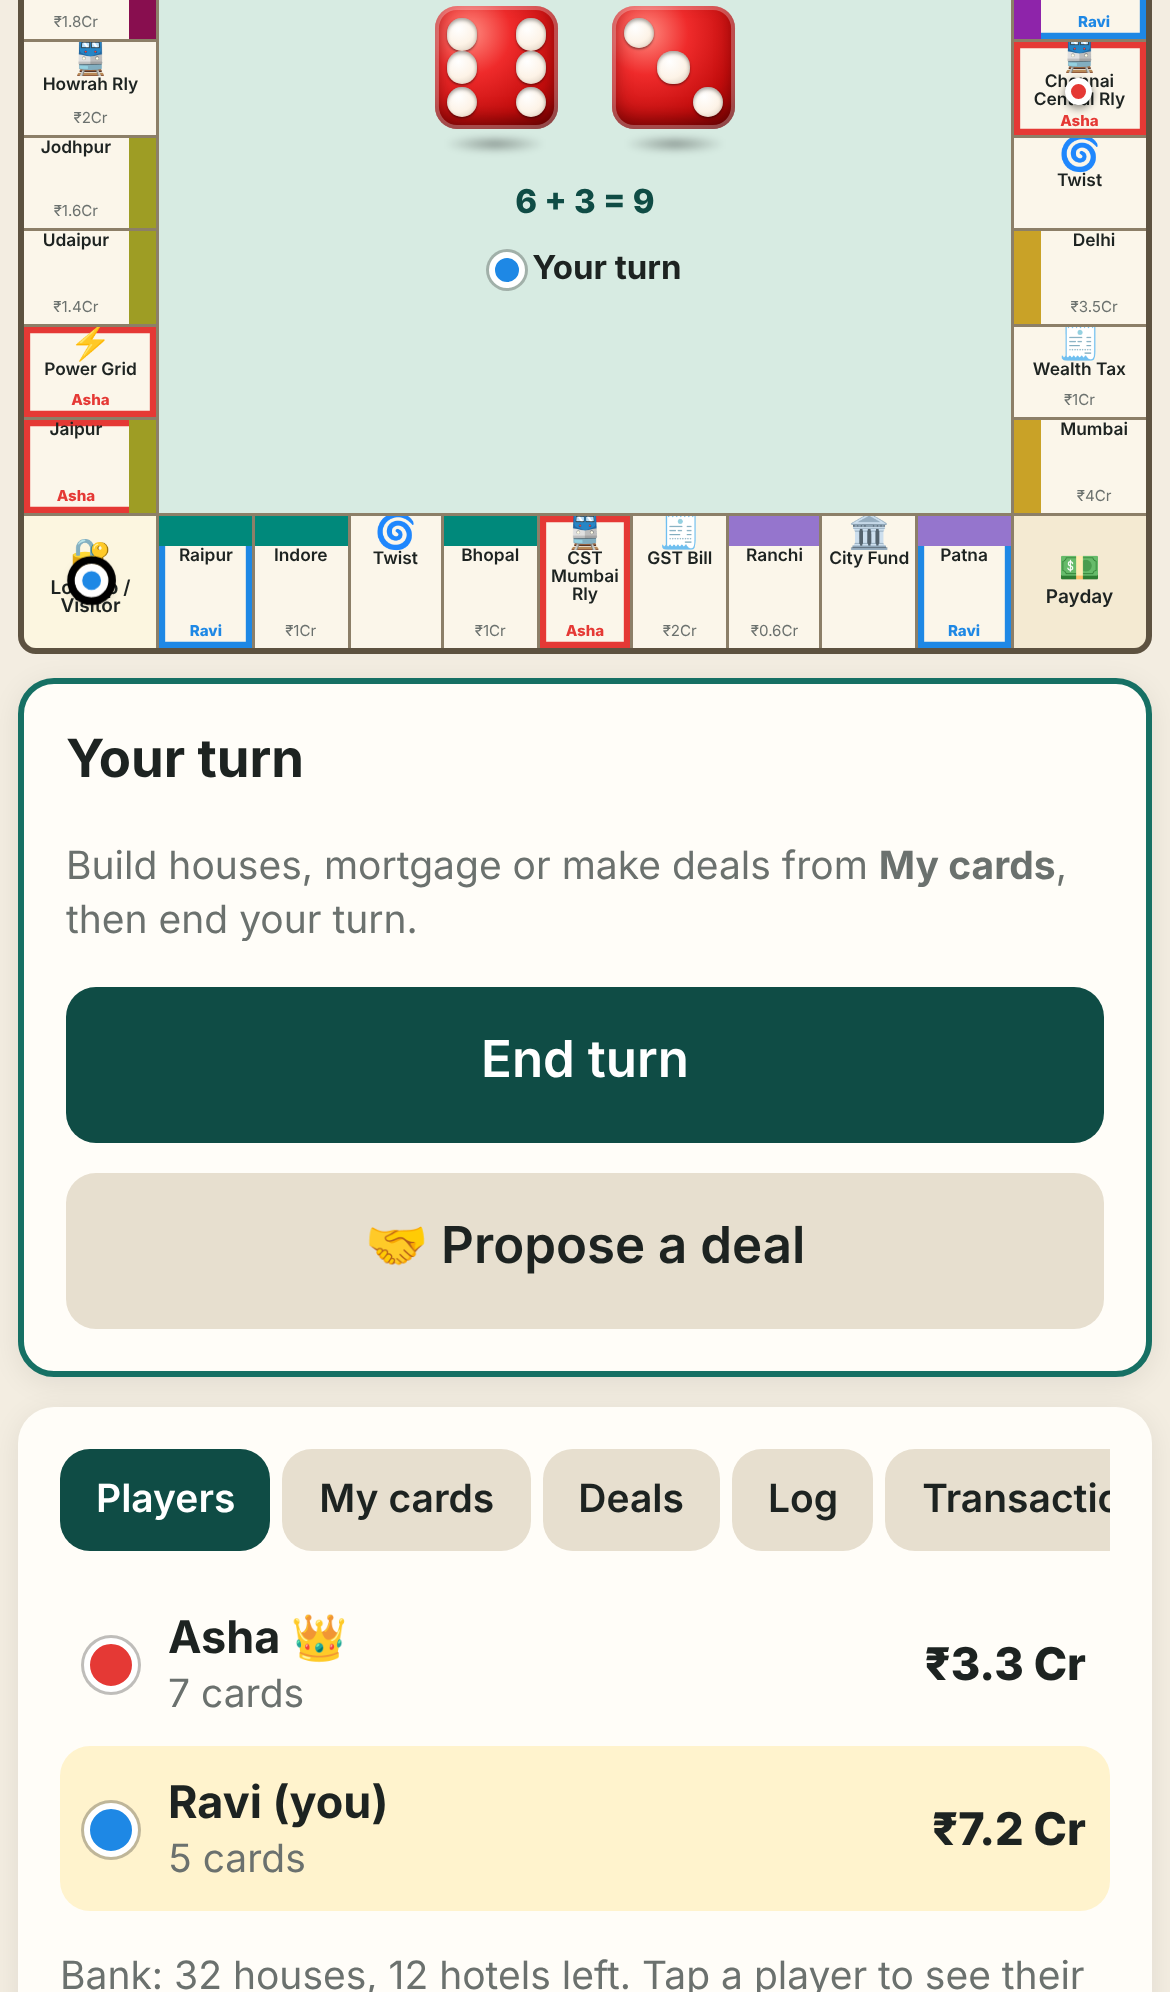
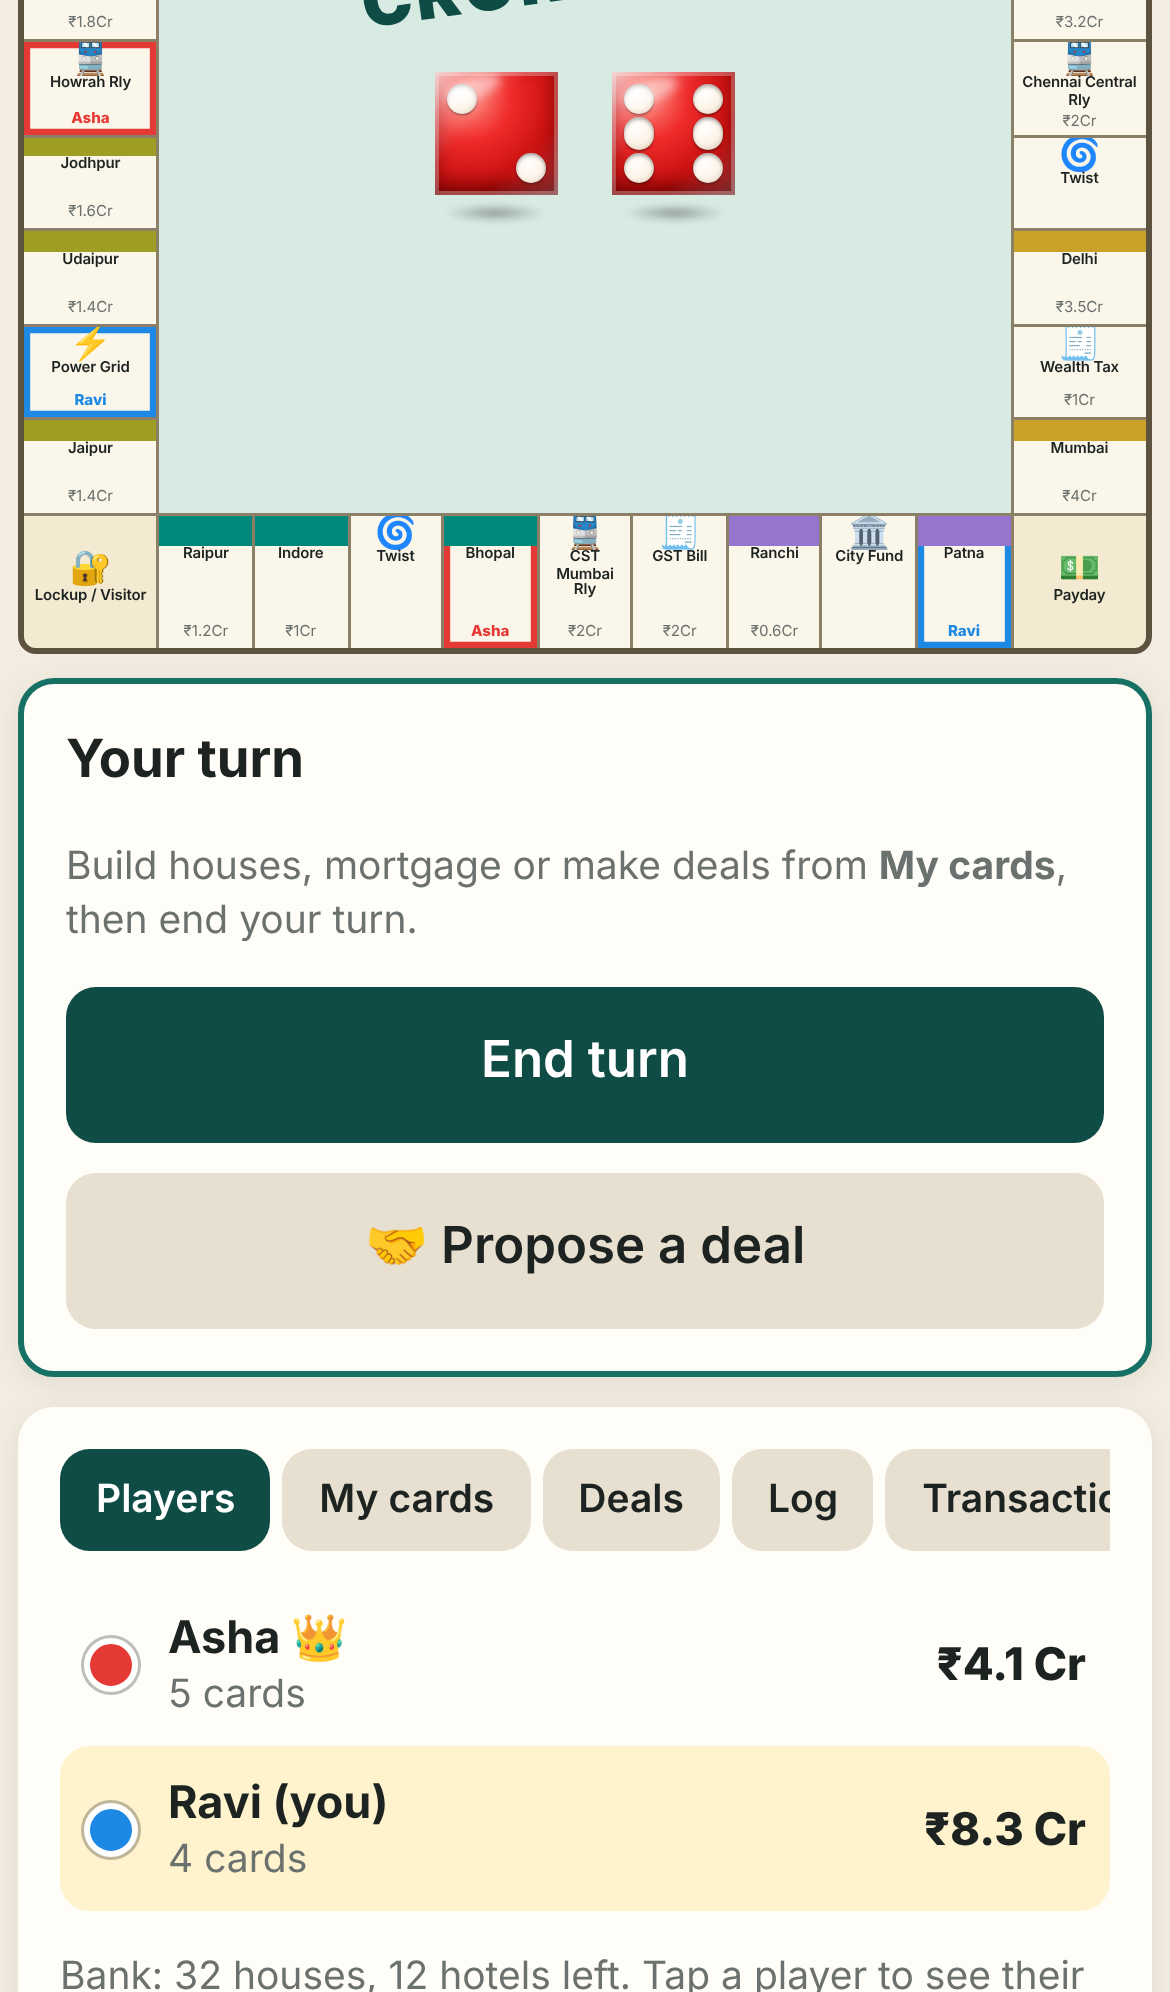
Uniform square layout and font, city renames, sharp glossy dice
- Every edge square uses the bottom-row layout: colour band on top, upright name
- One font size for all square names
- Bangalore; Coimbatore, Pune, Kolkata, Ahmedabad, Gurgaon shuffled per review
- Dice have sharp edges and a glossy finish; centre no longer shows the sum or turn

Claude-Session: https://claude.ai/code/session_01GqqNpzTa1FqroPwGw7naSL

diff --git a/public/app.js b/public/app.js
@@ -2,7 +2,7 @@
 (() => {
 // ================= data =================
 let BOARD = [], GROUPS = {}, COLORS = [];
-const SHORT = { 'Thiruvananthapuram': 'Trivandrum', 'CST Mumbai Railway': 'CST Mumbai Rly', 'Howrah Railway': 'Howrah Rly', 'New Delhi Railway': 'New Delhi Rly', 'Chennai Central Railway': 'Chennai Central Rly', 'Lockup / Visitor': 'Lockup / Visitor', 'Festival Holiday': 'Festival Holiday' };
+const SHORT = { 'CST Mumbai Railway': 'CST Mumbai Rly', 'Howrah Railway': 'Howrah Rly', 'New Delhi Railway': 'New Delhi Rly', 'Chennai Central Railway': 'Chennai Central Rly', 'Lockup / Visitor': 'Lockup / Visitor', 'Festival Holiday': 'Festival Holiday' };
 const ICON = { go: '💵', chest: '🏛', chance: '🌀', tax: '🧾', rail: '🚆', jail: '🔐', free: '🪔', gotojail: '🚨' };
 const UTIL_ICON = { 'Power Grid': '⚡', 'Jal Board': '💧' };
 
@@ -150,7 +150,7 @@ function shareLink() { return `${location.origin}/r/${S.code}`; }
 function previewBoard(st) {
   const saved = S; S = st;
   try {
-    const sq = BOARD.map(s => { const [r, c, side] = coord(s.i); const corner = [0, 10, 20, 30].includes(s.i); return `<div class="sq ${corner ? 'corner' : 'side-' + side}" style="grid-row:${r};grid-column:${c}">${sqHTML(s)}</div>`; }).join('');
+    const sq = BOARD.map(s => { const [r, c, side] = coord(s.i); const corner = [0, 10, 20, 30].includes(s.i); return `<div class="sq ${corner ? 'corner' : 'side-b'}" style="grid-row:${r};grid-column:${c}">${sqHTML(s)}</div>`; }).join('');
     return `<div class="boardwrap preview"><div class="board">${sq}<div class="center"><div class="gname">CRORE CITY</div><div class="muted" style="font-size:clamp(10px,2.4cqi,15px)">Board preview</div></div></div></div>`;
   } finally { S = saved; }
 }
@@ -209,13 +209,13 @@ function buildGame() {
     const [r, c, side] = coord(s.i);
     const d = document.createElement('div');
     const corner = [0, 10, 20, 30].includes(s.i);
-    d.className = `sq ${corner ? 'corner' : 'side-' + side}`; d.id = 'sq' + s.i;
+    d.className = `sq ${corner ? 'corner' : 'side-b'}`; d.id = 'sq' + s.i;
     d.style.gridRow = r; d.style.gridColumn = c;
     d.onclick = () => openDeed(s.i);
     b.appendChild(d);
   });
   const center = document.createElement('div'); center.className = 'center'; center.id = 'center';
-  center.innerHTML = `<div class="gname">CRORE CITY</div><div class="dicebox"><div class="tosser" id="t1"><div class="cube" id="d1"></div></div><div class="tosser" id="t2"><div class="cube" id="d2"></div></div></div><div class="rolltotal" id="rolltotal"></div><div class="turnline" id="turnline"></div><div id="cardshow"></div>`;
+  center.innerHTML = `<div class="gname">CRORE CITY</div><div class="dicebox"><div class="tosser" id="t1"><div class="cube" id="d1"></div></div><div class="tosser" id="t2"><div class="cube" id="d2"></div></div></div><div id="cardshow"></div>`;
   b.appendChild(center);
   buildCube($('#d1')); buildCube($('#d2')); setCube($('#d1'), 1, false); setCube($('#d2'), 2, false);
 }
@@ -235,18 +235,14 @@ function setCube(el, n, tumble) {
 }
 function spinDice() { // instant feedback while waiting for the server
   ['#d1', '#d2'].forEach(s => { const d = $(s); if (d) d.classList.add('spin'); });
-  const t = $('#rolltotal'); if (t) t.classList.remove('show');
+  
 }
 function animateDice(roll, anim) {
   const d1 = $('#d1'), d2 = $('#d2'); if (!d1) return;
-  const tot = $('#rolltotal');
-  const label = `${roll.d1} + ${roll.d2} = ${roll.d1 + roll.d2}${roll.d1 === roll.d2 ? '<span class="dbl">DOUBLES!</span>' : ''}`;
   d1.classList.remove('spin'); d2.classList.remove('spin');
-  if (!anim) { setCube(d1, roll.d1, false); setCube(d2, roll.d2, false); tot.innerHTML = label; tot.classList.add('show'); return; }
-  tot.classList.remove('show');
+  if (!anim) { setCube(d1, roll.d1, false); setCube(d2, roll.d2, false); return; }
   ['#t1', '#t2'].forEach((s, i) => { const t = $(s); t.classList.remove('toss-l', 'toss-r'); void t.offsetWidth; t.classList.add(i ? 'toss-r' : 'toss-l'); });
   requestAnimationFrame(() => { setCube(d1, roll.d1, true); setCube(d2, roll.d2, true); });
-  setTimeout(() => { tot.innerHTML = label; tot.classList.add('show'); }, 1250);
 }
 function flashSq(i) { const e = $('#sq' + i); if (!e) return; e.classList.remove('hl'); void e.offsetWidth; e.classList.add('hl'); }
 
@@ -263,7 +259,7 @@ function sqHTML(s) {
   const price = s.price ? (owner ? esc(owner.name.slice(0, 6)) : fmt(s.price).replace('₹', '₹').replace(' Cr', 'Cr')) : (s.amount ? fmt(s.amount).replace(' Cr', 'Cr') : '');
   const toks = S.players.filter(p => !p.bankrupt && p.pos === s.i).map(p => `<span class="tok ${p.id === me ? 'me' : ''} ${cur()?.id === p.id ? 'turn' : ''}" style="background:${p.color}" title="${esc(p.name)}"></span>`).join('');
   const jailNote = s.i === 10 && S.players.some(p => p.inJail && !p.bankrupt) ? `<div class="pr">🔒 ${S.players.filter(p => p.inJail && !p.bankrupt).length} inside</div>` : '';
-  return `${band}<div class="txt">${ic ? `<div class="ic">${ic}</div>` : ''}<div class="nm ${(SHORT[s.name] || s.name).split(' ').some(w => w.length >= 9) ? 'long' : ''}">${nm}</div>${jailNote}<div class="pr">${price}</div></div><div class="tokens">${toks}</div>`;
+  return `${band}<div class="txt">${ic ? `<div class="ic">${ic}</div>` : ''}<div class="nm">${nm}</div>${jailNote}<div class="pr">${price}</div></div><div class="tokens">${toks}</div>`;
 }
 
 function renderGame() {

diff --git a/public/style.css b/public/style.css
@@ -57,12 +57,10 @@ h1,h2,h3{margin:.2em 0 .4em}
 .board{display:grid;width:100%;height:100%;grid-template-columns:1.45fr repeat(9,1fr) 1.45fr;grid-template-rows:1.45fr repeat(9,1fr) 1.45fr;gap:1px;background:#8c7f68;border:2px solid #5d5240;border-radius:6px;overflow:hidden;container-type:inline-size}
 .sq{position:relative;background:var(--sq);overflow:hidden;display:flex;flex-direction:column;align-items:center;justify-content:flex-start;text-align:center;cursor:pointer;min-width:0;min-height:0}
 .sq .band{flex:none;width:100%;height:22%;display:flex;align-items:center;justify-content:center;gap:1px}
-.sq .nm{font-size:clamp(5.5px,1.55cqi,12px);font-weight:600;line-height:1.05;padding:1px;overflow-wrap:normal;word-break:normal}
-.sq .nm.long{font-size:clamp(4.5px,1.22cqi,10px);letter-spacing:-.02em}
+.sq .nm{font-size:clamp(5px,1.32cqi,12px);font-weight:600;line-height:1.08;padding:1px 2px;overflow-wrap:normal;word-break:normal;letter-spacing:-.01em}
 .sq .pr{font-size:clamp(5px,1.35cqi,11px);color:var(--muted);margin-top:auto;padding-bottom:1px}
 .sq .ic{font-size:clamp(9px,3cqi,26px);line-height:1}
 .sq.corner{justify-content:center;background:#f4ead2}
-.sq.corner .nm{font-size:clamp(6px,1.7cqi,13px)}
 .sq.owned{box-shadow:inset 0 0 0 clamp(2px,.55cqi,4px) var(--oc)}
 .sq.owned .pr{color:var(--oc);font-weight:800}
 .sq.mort::after{content:"M";position:absolute;inset:0;display:grid;place-items:center;font-weight:900;font-size:clamp(10px,3.5cqi,30px);color:rgba(198,40,40,.85);background:repeating-linear-gradient(45deg,rgba(0,0,0,.12) 0 3px,transparent 3px 7px);pointer-events:none}
@@ -70,7 +68,7 @@ h1,h2,h3{margin:.2em 0 .4em}
 @keyframes hl{0%{background:#fff59d}100%{background:var(--sq)}}
 .house{font-size:clamp(5px,1.5cqi,12px);line-height:1;color:#fff;text-shadow:0 0 2px #000}
 .hotel{font-size:clamp(8px,2.4cqi,20px);line-height:1;color:#ffe082;text-shadow:0 0 2px #000,0 0 1px #000}
-.tokens{position:absolute;inset:38% 0 auto 0;display:flex;flex-wrap:wrap;justify-content:center;gap:1px;pointer-events:none}
+.tokens{position:absolute;inset:50% 0 auto 0;transform:translateY(-30%);display:flex;flex-wrap:wrap;justify-content:center;gap:1px;pointer-events:none}
 .tok{width:clamp(7px,2.4cqi,18px);height:clamp(7px,2.4cqi,18px);border-radius:50%;border:2px solid #fff;box-shadow:0 1px 3px rgba(0,0,0,.5);transition:transform .3s}
 .tok.me{outline:2px solid #000}
 .tok.turn{animation:pulse 1s infinite alternate}
@@ -96,9 +94,11 @@ h1,h2,h3{margin:.2em 0 .4em}
 .cube{--s:11cqi;width:var(--s);height:var(--s);position:relative;transform-style:preserve-3d;transition:transform 1.25s cubic-bezier(.2,.75,.25,1)}
 .cube.spin{transition:none;animation:spin .55s linear infinite}
 @keyframes spin{from{transform:rotateX(0) rotateY(0) rotateZ(0)}to{transform:rotateX(360deg) rotateY(720deg) rotateZ(180deg)}}
-.face{position:absolute;inset:0;border-radius:18%;background:radial-gradient(circle at 28% 22%,#ff8a80 0,#ef2b2b 32%,#c40d0d 68%,#7d0000 100%);box-shadow:inset 0 0 0 .35cqi rgba(255,255,255,.28),inset 0 -.9cqi 1.6cqi rgba(60,0,0,.55);display:grid;grid-template:repeat(3,1fr)/repeat(3,1fr);padding:9%;backface-visibility:hidden}
+.face{position:absolute;inset:0;border-radius:0;overflow:hidden;background:radial-gradient(circle at 28% 22%,#ff8a80 0,#ef2b2b 32%,#c40d0d 68%,#7d0000 100%);box-shadow:inset 0 0 0 .35cqi rgba(255,255,255,.28),inset 0 -.9cqi 1.6cqi rgba(60,0,0,.55);display:grid;grid-template:repeat(3,1fr)/repeat(3,1fr);padding:9%;backface-visibility:hidden}
 .face i{width:92%;height:92%;margin:auto;border-radius:50%;background:radial-gradient(circle at 38% 32%,#ffffff 0,#fdf3e7 55%,#d9c9b8 100%);box-shadow:inset 0 .2cqi .35cqi rgba(0,0,0,.35),0 .12cqi .2cqi rgba(0,0,0,.45)}
 .face.f1 i{width:130%;height:130%;background:radial-gradient(circle at 38% 32%,#fff6d0,#ffd54f 55%,#c99a00)}
+.face::after{content:"";position:absolute;inset:0;pointer-events:none;background:linear-gradient(135deg,rgba(255,255,255,.75) 0,rgba(255,255,255,.25) 18%,rgba(255,255,255,0) 38%,rgba(255,255,255,0) 70%,rgba(255,255,255,.18) 100%)}
+.face::before{content:"";position:absolute;left:8%;top:6%;width:45%;height:16%;border-radius:50%;background:rgba(255,255,255,.45);filter:blur(.4cqi);transform:rotate(-20deg);pointer-events:none}
 .f1{transform:translateZ(calc(var(--s) / 2))}
 .f6{transform:rotateY(180deg) translateZ(calc(var(--s) / 2))}
 .f2{transform:rotateY(90deg) translateZ(calc(var(--s) / 2))}
@@ -169,3 +169,4 @@ h1,h2,h3{margin:.2em 0 .4em}
 
 .boardwrap.preview{max-width:100%;margin-top:6px}
 .home{max-width:560px}
+.sq.corner .tokens{inset:auto 0 4% 0;transform:none}

diff --git a/game.js b/game.js
@@ -14,7 +14,7 @@ const GROUPS = {
   teal: { color: '#00897b', name: 'Central' },
   olive: { color: '#9e9d24', name: 'Rajasthan' },
   maroon: { color: '#880e4f', name: 'Uttar Pradesh' },
-  indigo: { color: '#3949ab', name: 'South Coast' },
+  indigo: { color: '#3949ab', name: 'Coast & Plateau' },
   sand: { color: '#c68b59', name: 'Trade Cities' },
   plum: { color: '#8e24aa', name: 'Southern Hubs' },
   gold: { color: '#c9a227', name: 'Metros' },
@@ -45,18 +45,18 @@ const BOARD = [
   { type: 'free', name: 'Festival Holiday' },
   P('Kochi', 'indigo', 220, [18, 90, 250, 700, 875, 1050], 150),
   { type: 'chance', name: 'Twist' },
-  P('Thiruvananthapuram', 'indigo', 220, [18, 90, 250, 700, 875, 1050], 150),
-  P('Coimbatore', 'indigo', 240, [20, 100, 300, 750, 925, 1100], 150),
+  P('Coimbatore', 'indigo', 220, [18, 90, 250, 700, 875, 1050], 150),
+  P('Pune', 'indigo', 240, [20, 100, 300, 750, 925, 1100], 150),
   { type: 'rail', name: 'New Delhi Railway', price: 200 },
-  P('Pune', 'sand', 260, [22, 110, 330, 800, 975, 1150], 150),
   P('Kolkata', 'sand', 260, [22, 110, 330, 800, 975, 1150], 150),
+  P('Ahmedabad', 'sand', 260, [22, 110, 330, 800, 975, 1150], 150),
   { type: 'util', name: 'Jal Board', price: 150 },
-  P('Ahmedabad', 'sand', 280, [24, 120, 360, 850, 1025, 1200], 150),
+  P('Gurgaon', 'sand', 280, [24, 120, 360, 850, 1025, 1200], 150),
   { type: 'gotojail', name: 'Go to Lockup' },
   P('Hyderabad', 'plum', 300, [26, 130, 390, 900, 1100, 1275], 200),
   P('Chennai', 'plum', 300, [26, 130, 390, 900, 1100, 1275], 200),
   { type: 'chest', name: 'City Fund' },
-  P('Bengaluru', 'plum', 320, [28, 150, 450, 1000, 1200, 1400], 200),
+  P('Bangalore', 'plum', 320, [28, 150, 450, 1000, 1200, 1400], 200),
   { type: 'rail', name: 'Chennai Central Railway', price: 200 },
   { type: 'chance', name: 'Twist' },
   P('Delhi', 'gold', 350, [35, 175, 500, 1100, 1300, 1500], 200),
